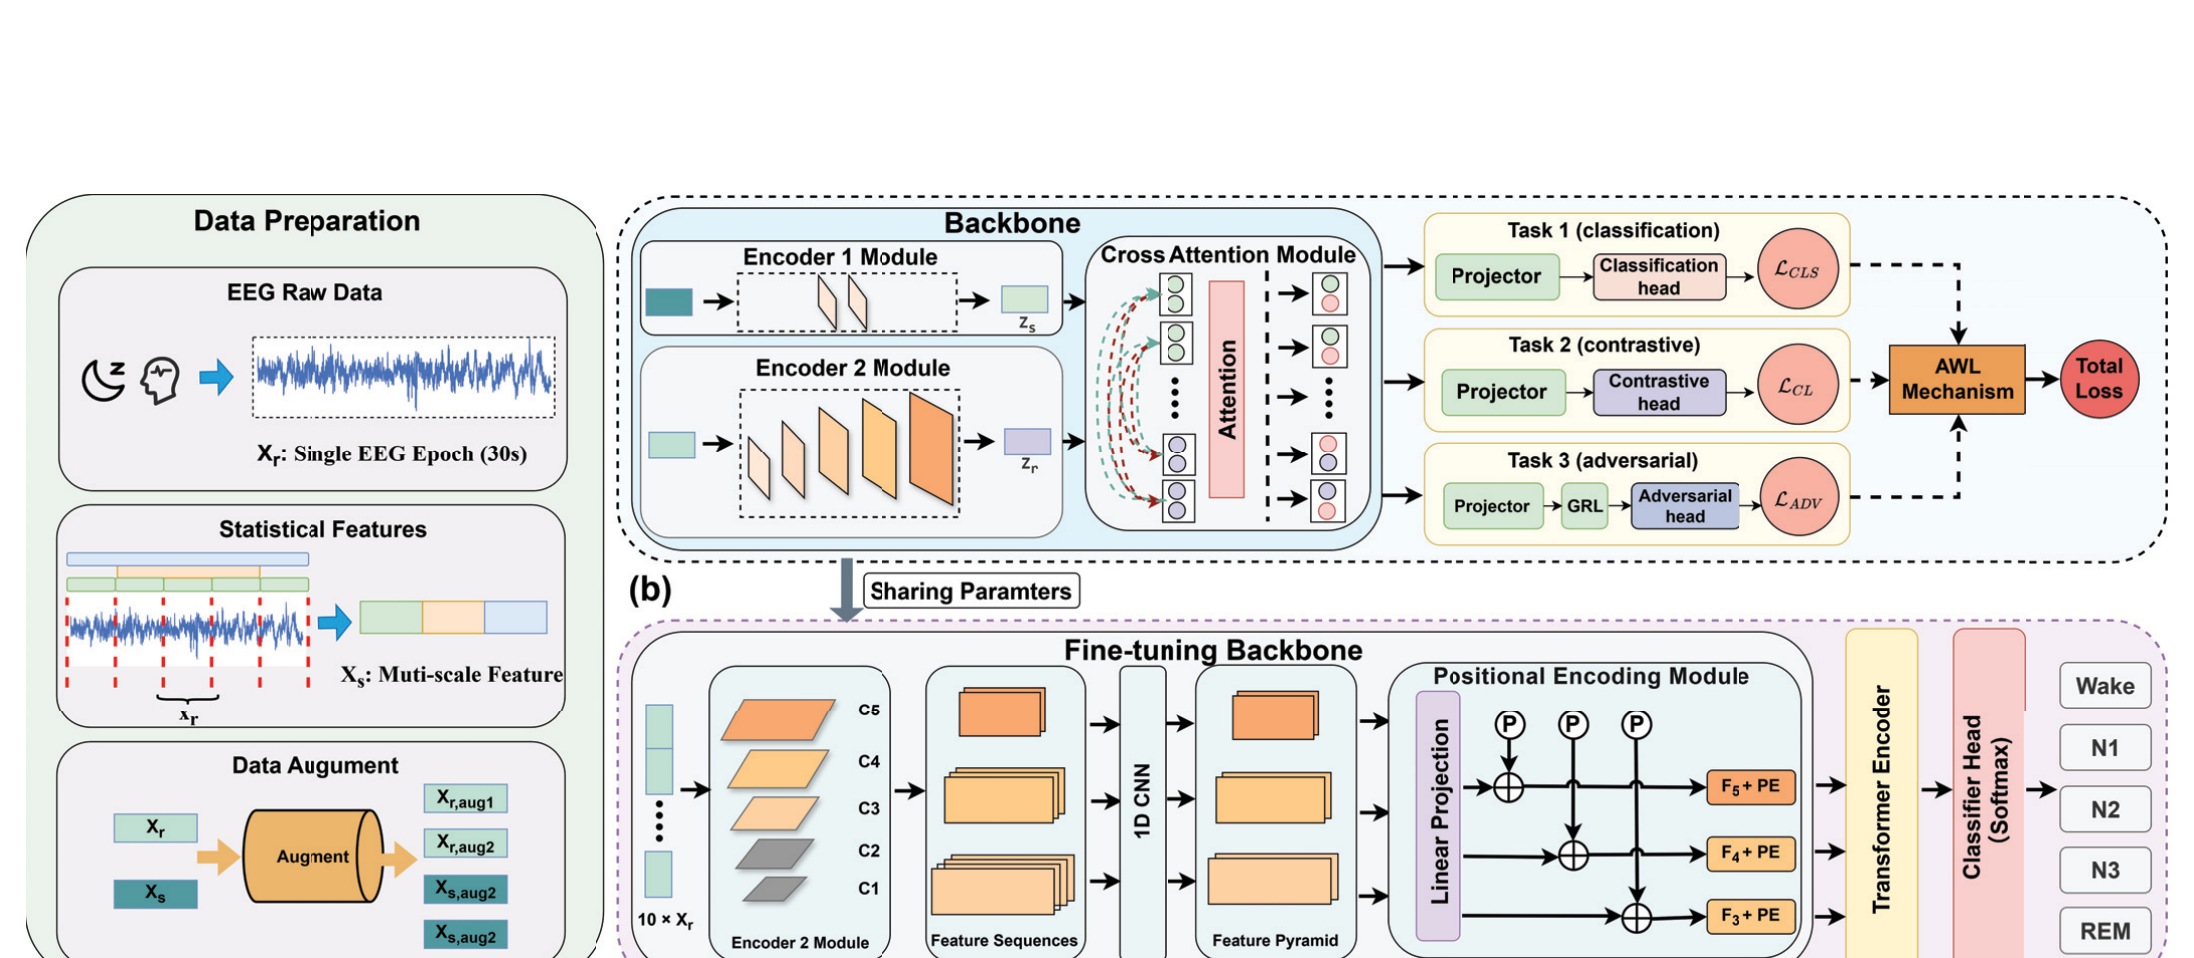
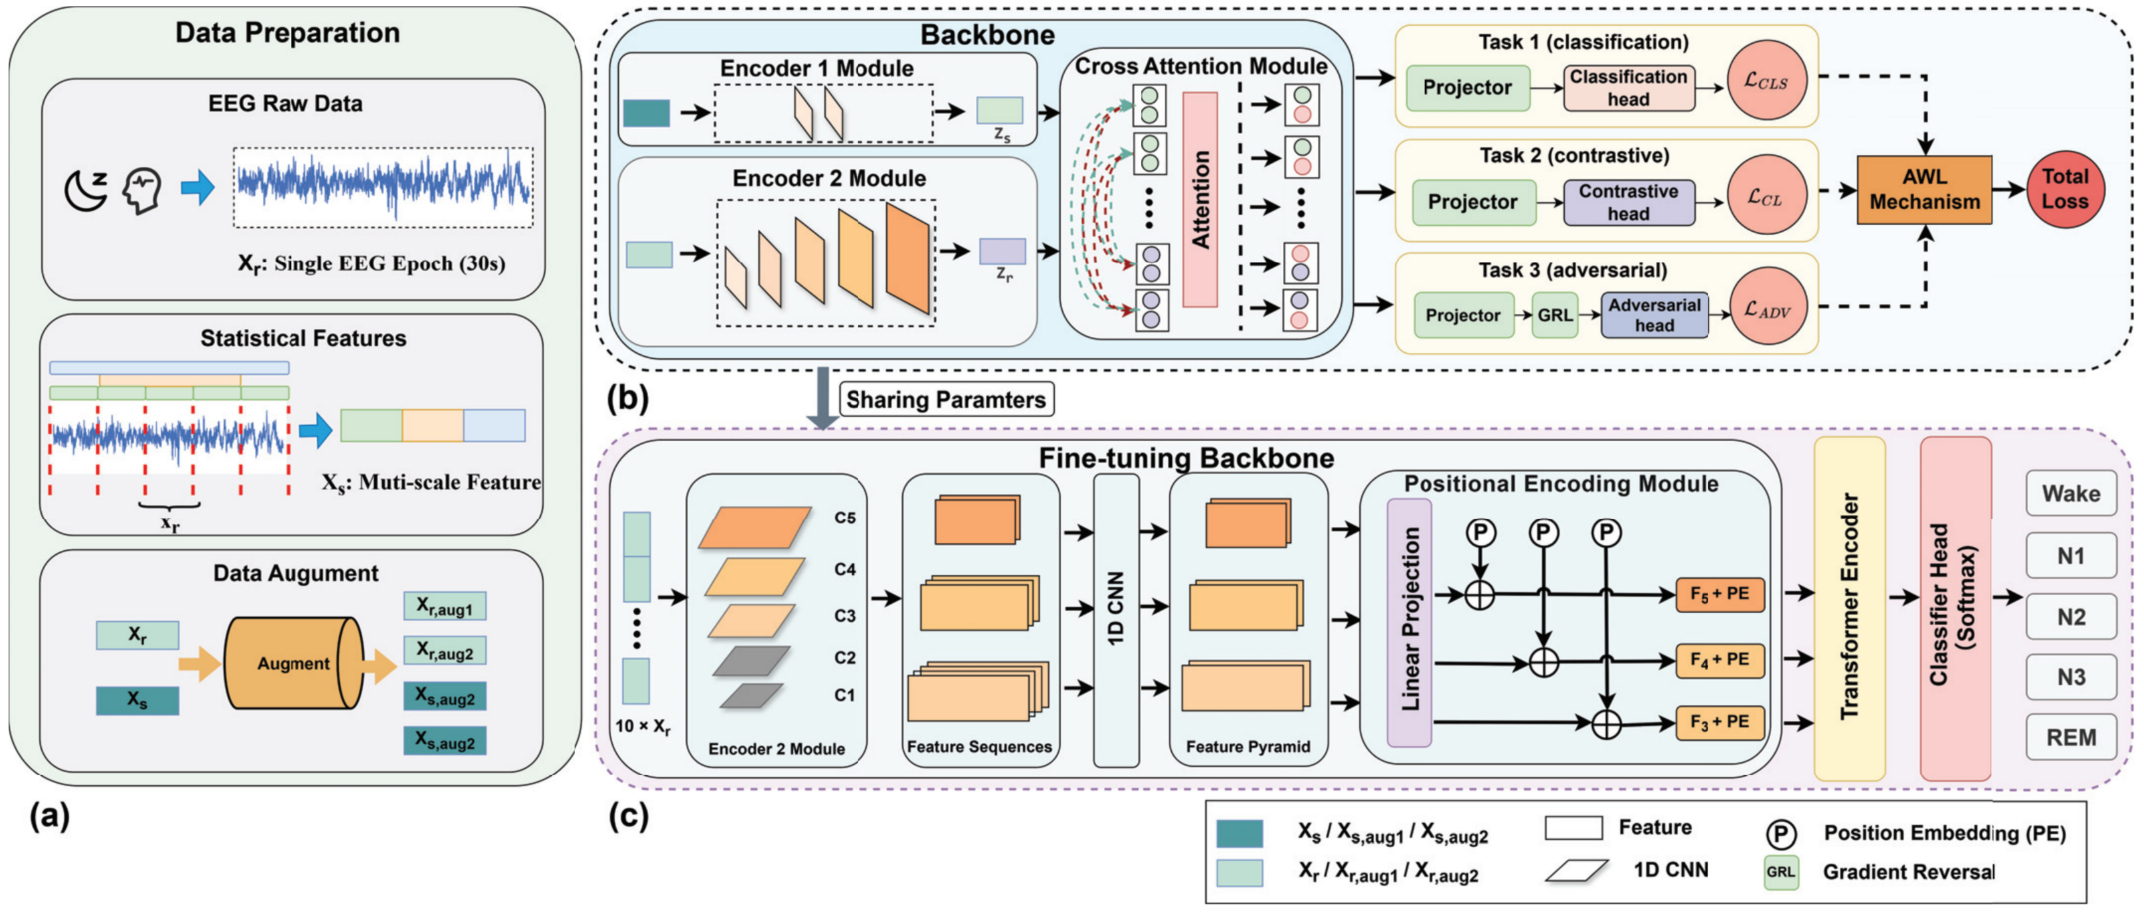
Trim README sections (results/quick-check/features) and replace architecture figure

diff --git a/README.md b/README.md
@@ -34,22 +34,6 @@ knowledge-enhanced design:
   <p><em>Overall architecture of K-SleepNet (Fig. 1 of the paper).</em></p>
 </div>
 
-## Results (from the paper)
-
-Evaluated on Sleep-EDF (79 subjects, Fpz-Cz), SHHS (5,793 subjects, C4-A1),
-and a self-collected clinical dataset (50 subjects, C3-O1), against DeepSleepNet,
-U-Time, AttnSleep, XSleepNet, SleepDG, Wafformer, and SleePyCo:
-
-| Dataset | ACC | Macro-F1 |
-|---|---|---|
-| Sleep-EDF | **86.4** | **81.0** |
-| SHHS | **88.2** | **82.0** |
-| Self-collected | **86.9** | **80.7** |
-| Average | **87.2** | **81.2** |
-
-K-SleepNet outperforms the runner-up (SleePyCo) by 1.3% average accuracy and
-1.3% average Macro-F1 across the three datasets (full comparison: Table II of
-the paper).
 
 ## Repository Contents
 
@@ -67,56 +51,6 @@ src/ksleepnet/
     └── features.py     # 153-dim multi-scale statistical features (paper Table I)
 ```
 
-Quick check that the model and multi-task losses run:
-
-```bash
-python -c "
-import sys; sys.path.insert(0, 'src')
-import torch
-import torch.nn.functional as F
-from ksleepnet.models import KSleepNetPretrain
-from ksleepnet.models.losses import ce_loss, supcon_loss
-from ksleepnet.train import AutomaticWeightedLoss
-
-m = KSleepNetPretrain()
-out = m(torch.randn(4, 1, 3000), torch.randn(4, 153))
-y = torch.randint(0, 5, (4,))
-l_cls = ce_loss(out['logits'], y)
-l_sup = supcon_loss(out['proj'], y)
-l_adv = F.binary_cross_entropy_with_logits(out['domain_logit'], torch.randint(0, 2, (4,)).float())
-awl = AutomaticWeightedLoss(num_tasks=3)
-print('AWL total:', float(awl(l_cls, l_sup, l_adv)))
-"
-```
-
-> **Note — architecture-level release.** This repository provides the model
-> architecture and feature-extraction implementation as a reference for the
-> paper. The training pipeline, hyperparameter configurations, and dataset
-> split files are **not** part of this release, so the paper's result tables
-> cannot be reproduced from this repository alone.
-
-> **Implementation note.** The original experimental codebase was lost due to a
-> server-storage expiration after the paper was accepted. This repository is a
-> clean re-implementation of the architecture described in the paper, rebuilt
-> afterwards from the manuscript and the surviving engineering records. It
-> faithfully reflects the paper's model design, but it is not the exact code
-> that produced the published result tables, and a few low-level engineering
-> choices may differ from the original implementation.
-
-## Features (`data/features.py`)
-
-51 base features × {1, 3, 5}-epoch windows = 153 dims per epoch:
-
-| Category | Count | Examples |
-|---|---|---|
-| Time domain | 14 | mean/std/quantiles/skew/kurtosis, first-diff stats |
-| Frequency | 11 | abs/relative band power (δ θ α σ β), total power |
-| Energy | 13 | signal energy/power/RMS, band energies & ratios |
-| Nonlinear / entropy | 6 | spectral / permutation / sample entropy, Hjorth params |
-| Peaks | 7 | count, height, prominence, density, zero-crossing rate |
-
-Windows are computed on the concatenated signal (edge-replicated at recording
-boundaries); permutation & sample entropy use numba-jitted kernels.
 
 ## Citation
 
@@ -137,15 +71,3 @@ If you find this work useful, please cite:
 }
 ```
 
-## Acknowledgements
-
-- The raw-epoch encoder design follows the DeepSleepNet representation layer
-  (Supratak et al., 2017).
-- The supervised contrastive loss follows Khosla et al., 2020.
-- The domain-adversarial branch uses the gradient reversal technique of
-  Ganin & Lempitsky, 2015.
-- The preprocessing protocol follows SleePyCo (Phyo et al.).
-
-## License
-
-To be determined.
